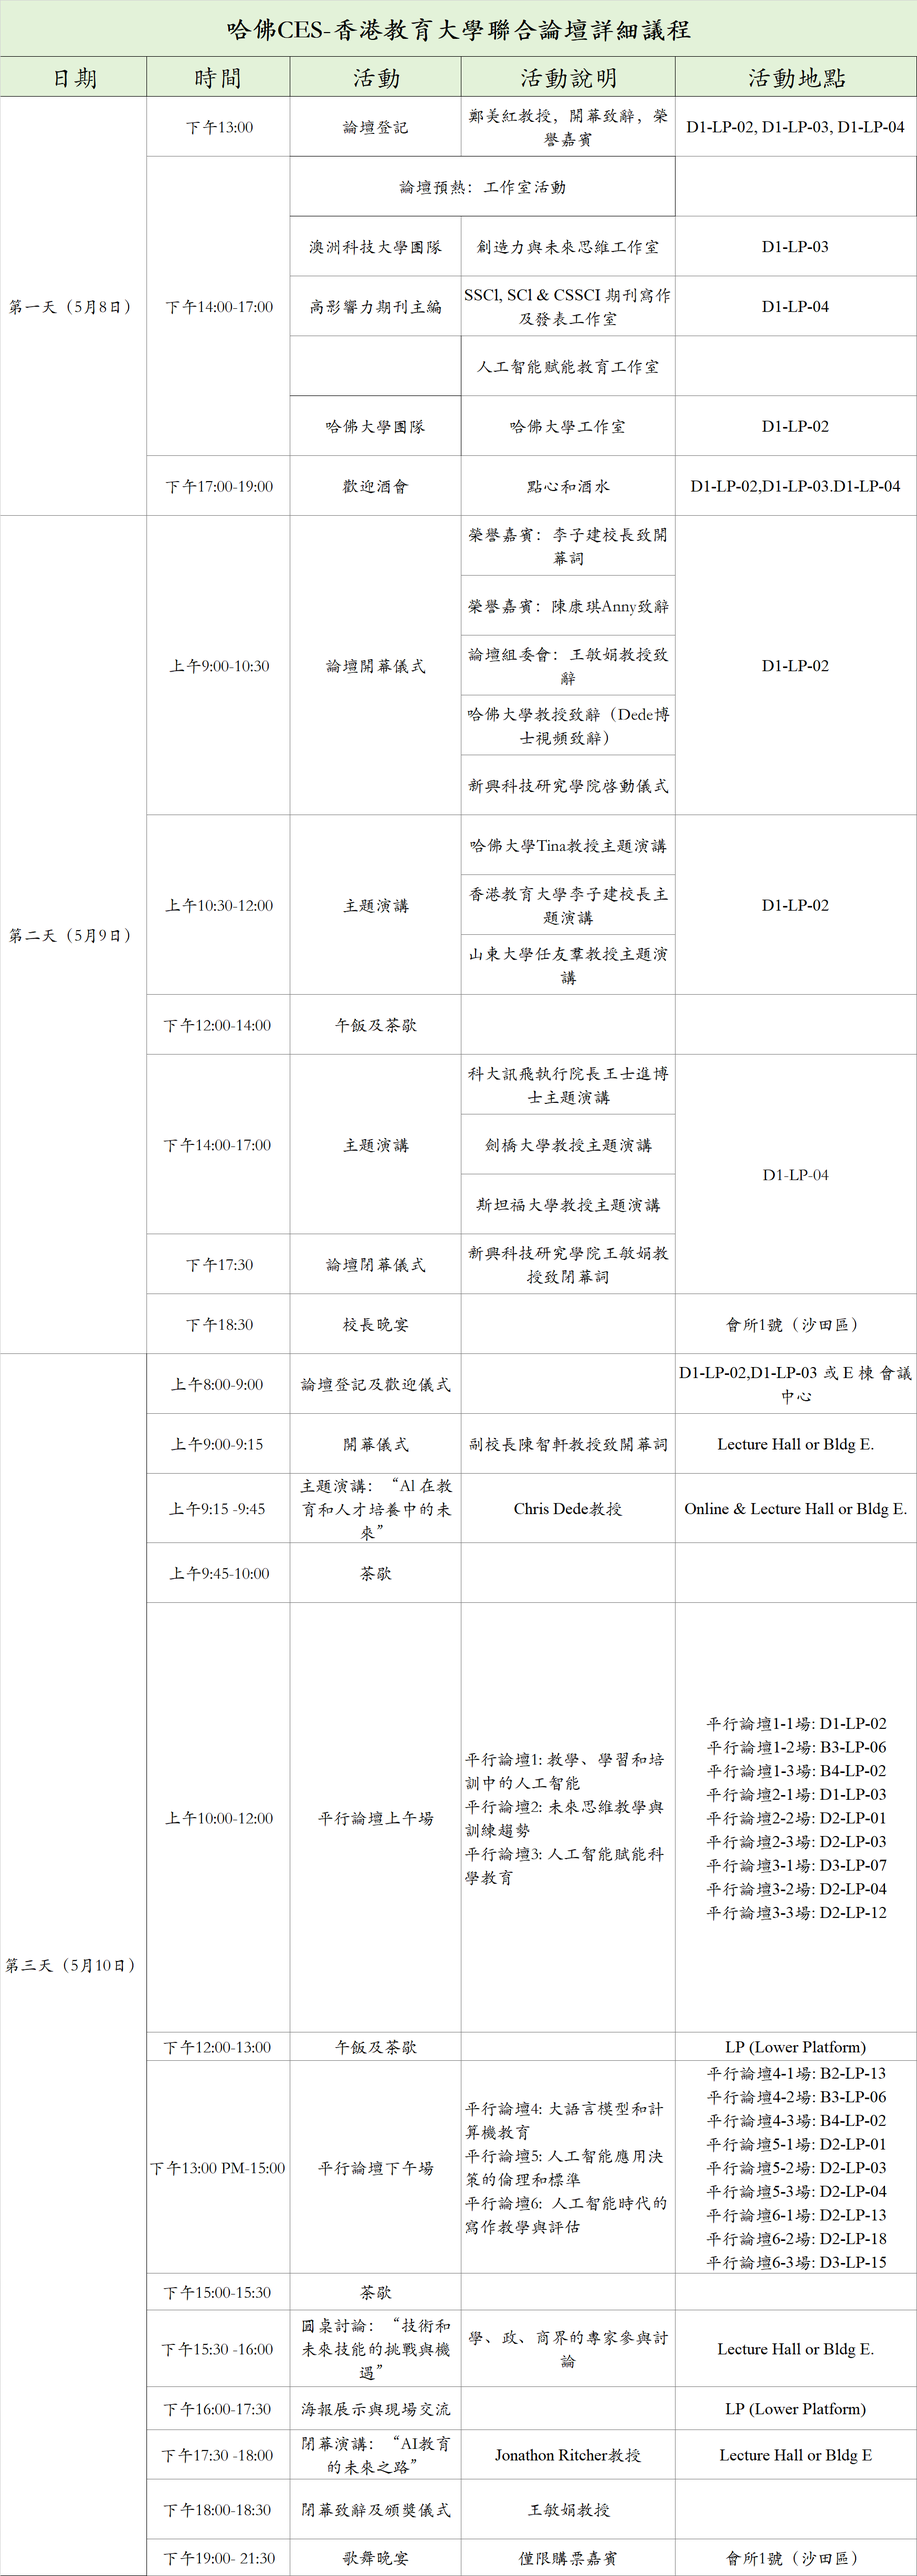
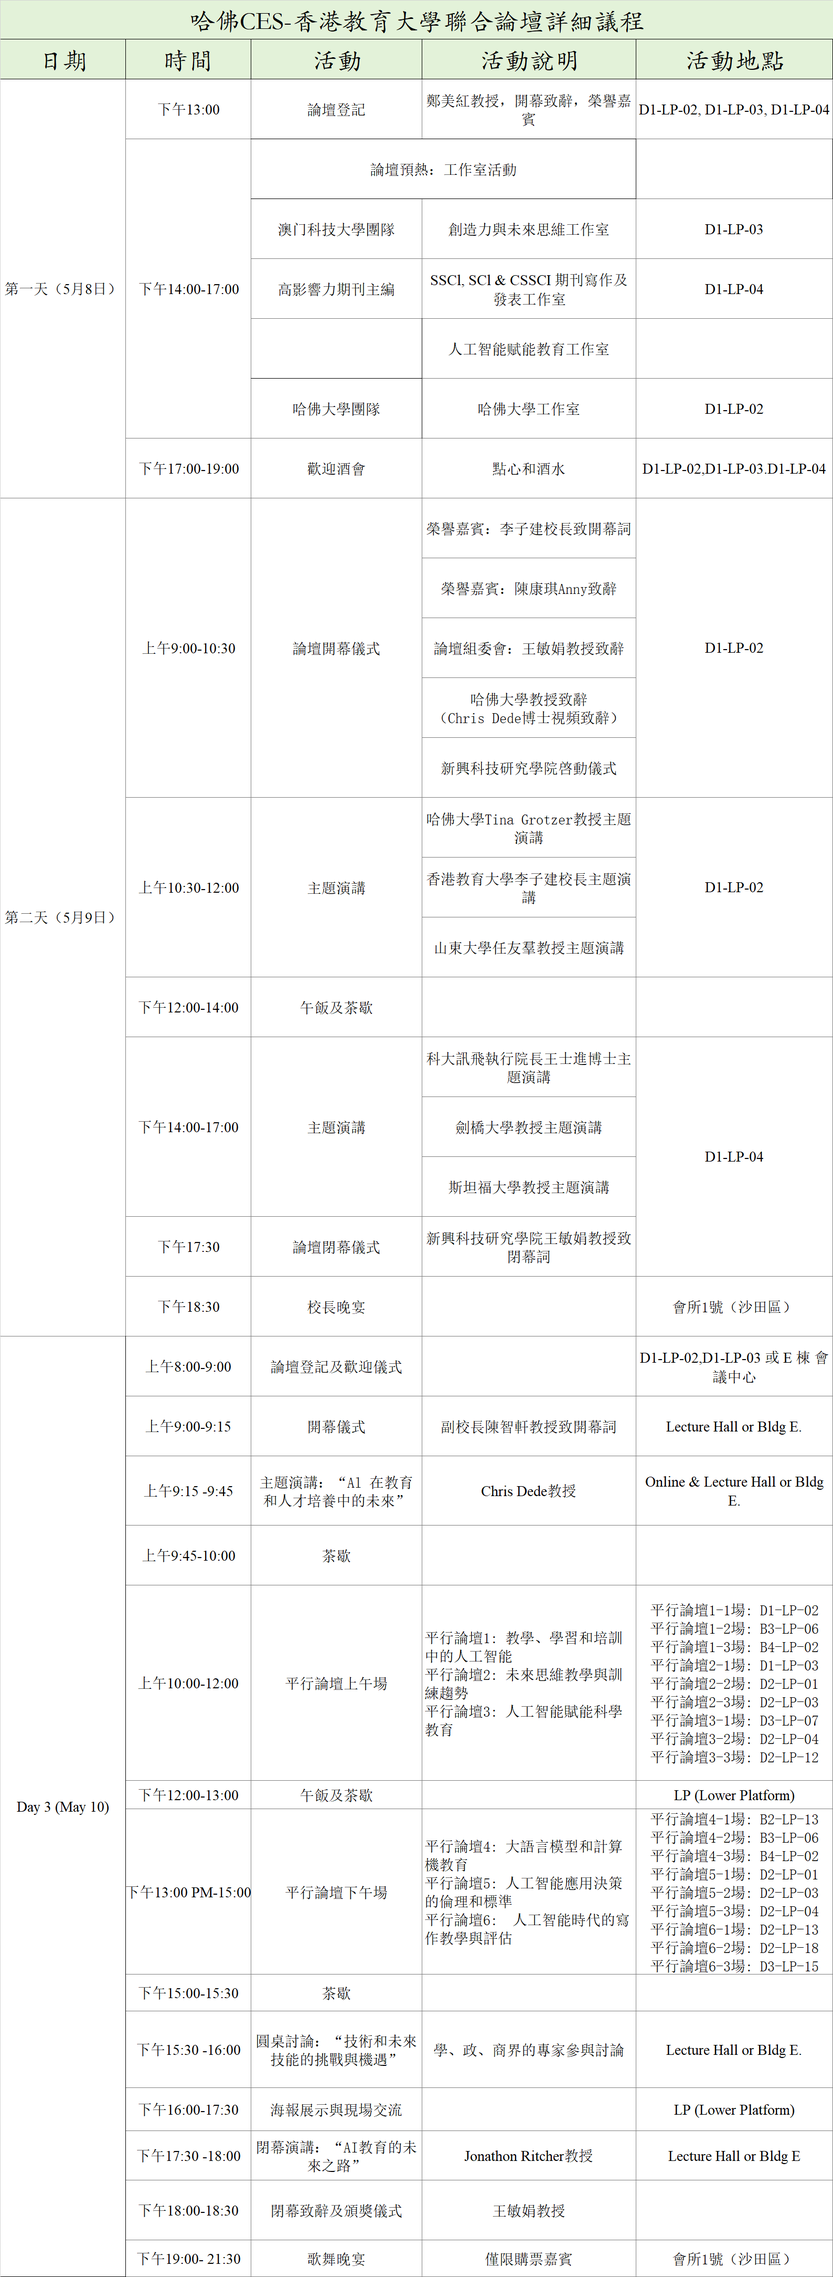
fix: typo and agenda

diff --git a/components/common/AppFooter.vue b/components/common/AppFooter.vue
@@ -61,11 +61,11 @@ const isHover = ref<boolean[]>([false, false])
             <span class="md:text-lg text-sm">Sponsorship</span>
           </UButton>
         </div>
-        <div class="justify-center items-center flex">
+        <!-- <div class="justify-center items-center flex">
           <a href="https://www.unesco.org/en" target="_blank">
             <NuxtImg src="img/logo/UNESCOLogo-single.png" />
           </a>
-        </div>
+        </div> -->
       </div>
 
       <div class="max-w-screen-md row-span-1">
@@ -141,9 +141,9 @@ const isHover = ref<boolean[]>([false, false])
             <span class="md:text-lg text-sm">Sponsorship</span>
           </UButton>
         </div>
-        <div class="justify-center items-center flex">
+        <!-- <div class="justify-center items-center flex">
           <NuxtImg src="img/logo/UNESCOLogo-single.png" class="md:w-full w-2/5" />
-        </div>
+        </div> -->
       </div>
 
       <div class="grid  grid-rows-1 grid-cols-1 row-span-1">

diff --git a/pages/session.vue b/pages/session.vue
@@ -62,7 +62,7 @@ const contact = computed(() => {
                 </h2>
                 <div class="flex justify-center items-center w-full self-center">
                     <UTable
-                        :ui="{ td: { size: 'md:text-base text-sm', color: 'text-black drak:text:white hover:text-green-600' }, th: { size: 'md:text-base text-base', } }"
+                        :ui="{ td: { size: 'md:text-base text-sm', color: 'text-black' }, th: { size: 'md:text-base text-base', } }"
                         :rows="contact" :columns="columns">
                     </UTable>
                 </div>

diff --git a/pages/speakers/guest.vue b/pages/speakers/guest.vue
@@ -49,7 +49,7 @@ const pending = ref(true)
             <UCommandPalette loading />
         </div>
         <div v-else>
-            <div class="max-w-5xl h-full justify-self-center md:flex hidden">
+            <div class="max-w-6xl h-full justify-self-center md:flex hidden">
                 <div>
                     <h1 class="text-center font-bold text-2xl py-6 justify-self-center">
                         {{ $t('Guest of Honor') }}

diff --git a/pages/sub-symposium/[id].vue b/pages/sub-symposium/[id].vue
@@ -31,7 +31,7 @@ const content = computed(() => {
           </div>
           <div class="text-green-800 text-center text-2xl font-bold mr-8">
             <div>
-              {{ $t("Session") }} {{ $t("server.Poster.id" + sessionId + ".index") }}:
+              {{ $t("Session") }}{{ $t("server.Poster.id" + sessionId + ".index") }}:
             </div>
             <div>
               {{ $t("server.Poster.id" + sessionId + ".name") }}

diff --git a/tailwind.config.js b/tailwind.config.js
@@ -19,8 +19,8 @@ export default {
         '2-full': '200%'
       },
       fontFamily: {
-        'display': ['"Times New Roman"', 'KaiTi'],
-        'body': ['"Times New Roman"', 'KaiTi'],
+        'display': ['"Times New Roman"', 'SimSun'],
+        'body': ['"Times New Roman"', 'SimSun'],
       },
       backgroundImage: {
         'letter-paper': "url('~/assets/bg/letter-paper.png')",
